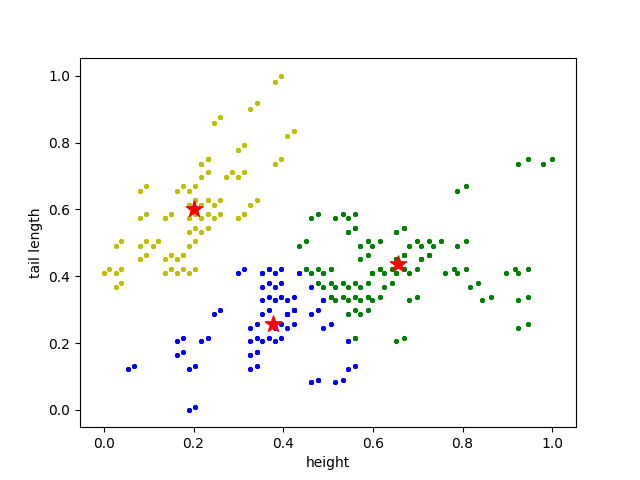
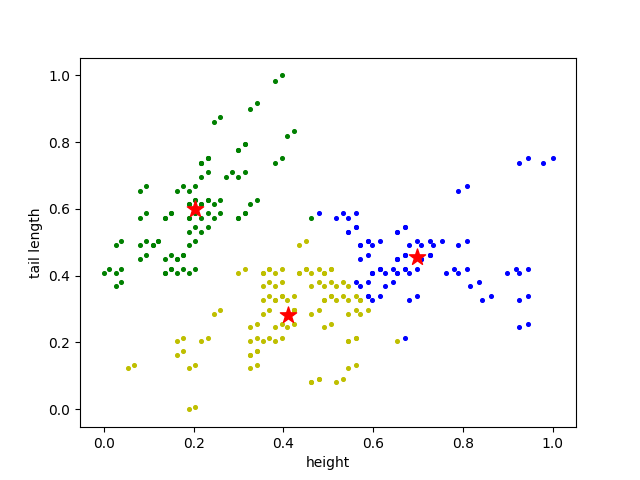
error tends to zero

diff --git a/kmeans/kmeans.py b/kmeans/kmeans.py
@@ -19,14 +19,15 @@ def initialise_centroids(dataset, k):
 def kmeans(dataset, k):
     centroids = initialise_centroids(dataset, k)
     cluster_assigned = 0
-    clusters = {centroid: [] for centroid in range(k)}
+    #clusters = {centroid: [] for centroid in range(k)}
 
-    max_it = 10
+    max_it = 100
     errors = []
     c_old = np.zeros((k, dataset.shape[1]))
     #prev_error = 100
     for i in range(max_it):
-
+        clusters = {centroid: [] for centroid in range(k)}
+        
         print(f"Interation {i}")
         for i in dataset:
             # Find closest cluster and store in dictionary
@@ -41,7 +42,7 @@ def kmeans(dataset, k):
         errors.append(error)
         c_old = deepcopy(centroids)
 
-        if int(error) == 0:
+        if error == 0:
             break
 
     return centroids, clusters, errors
